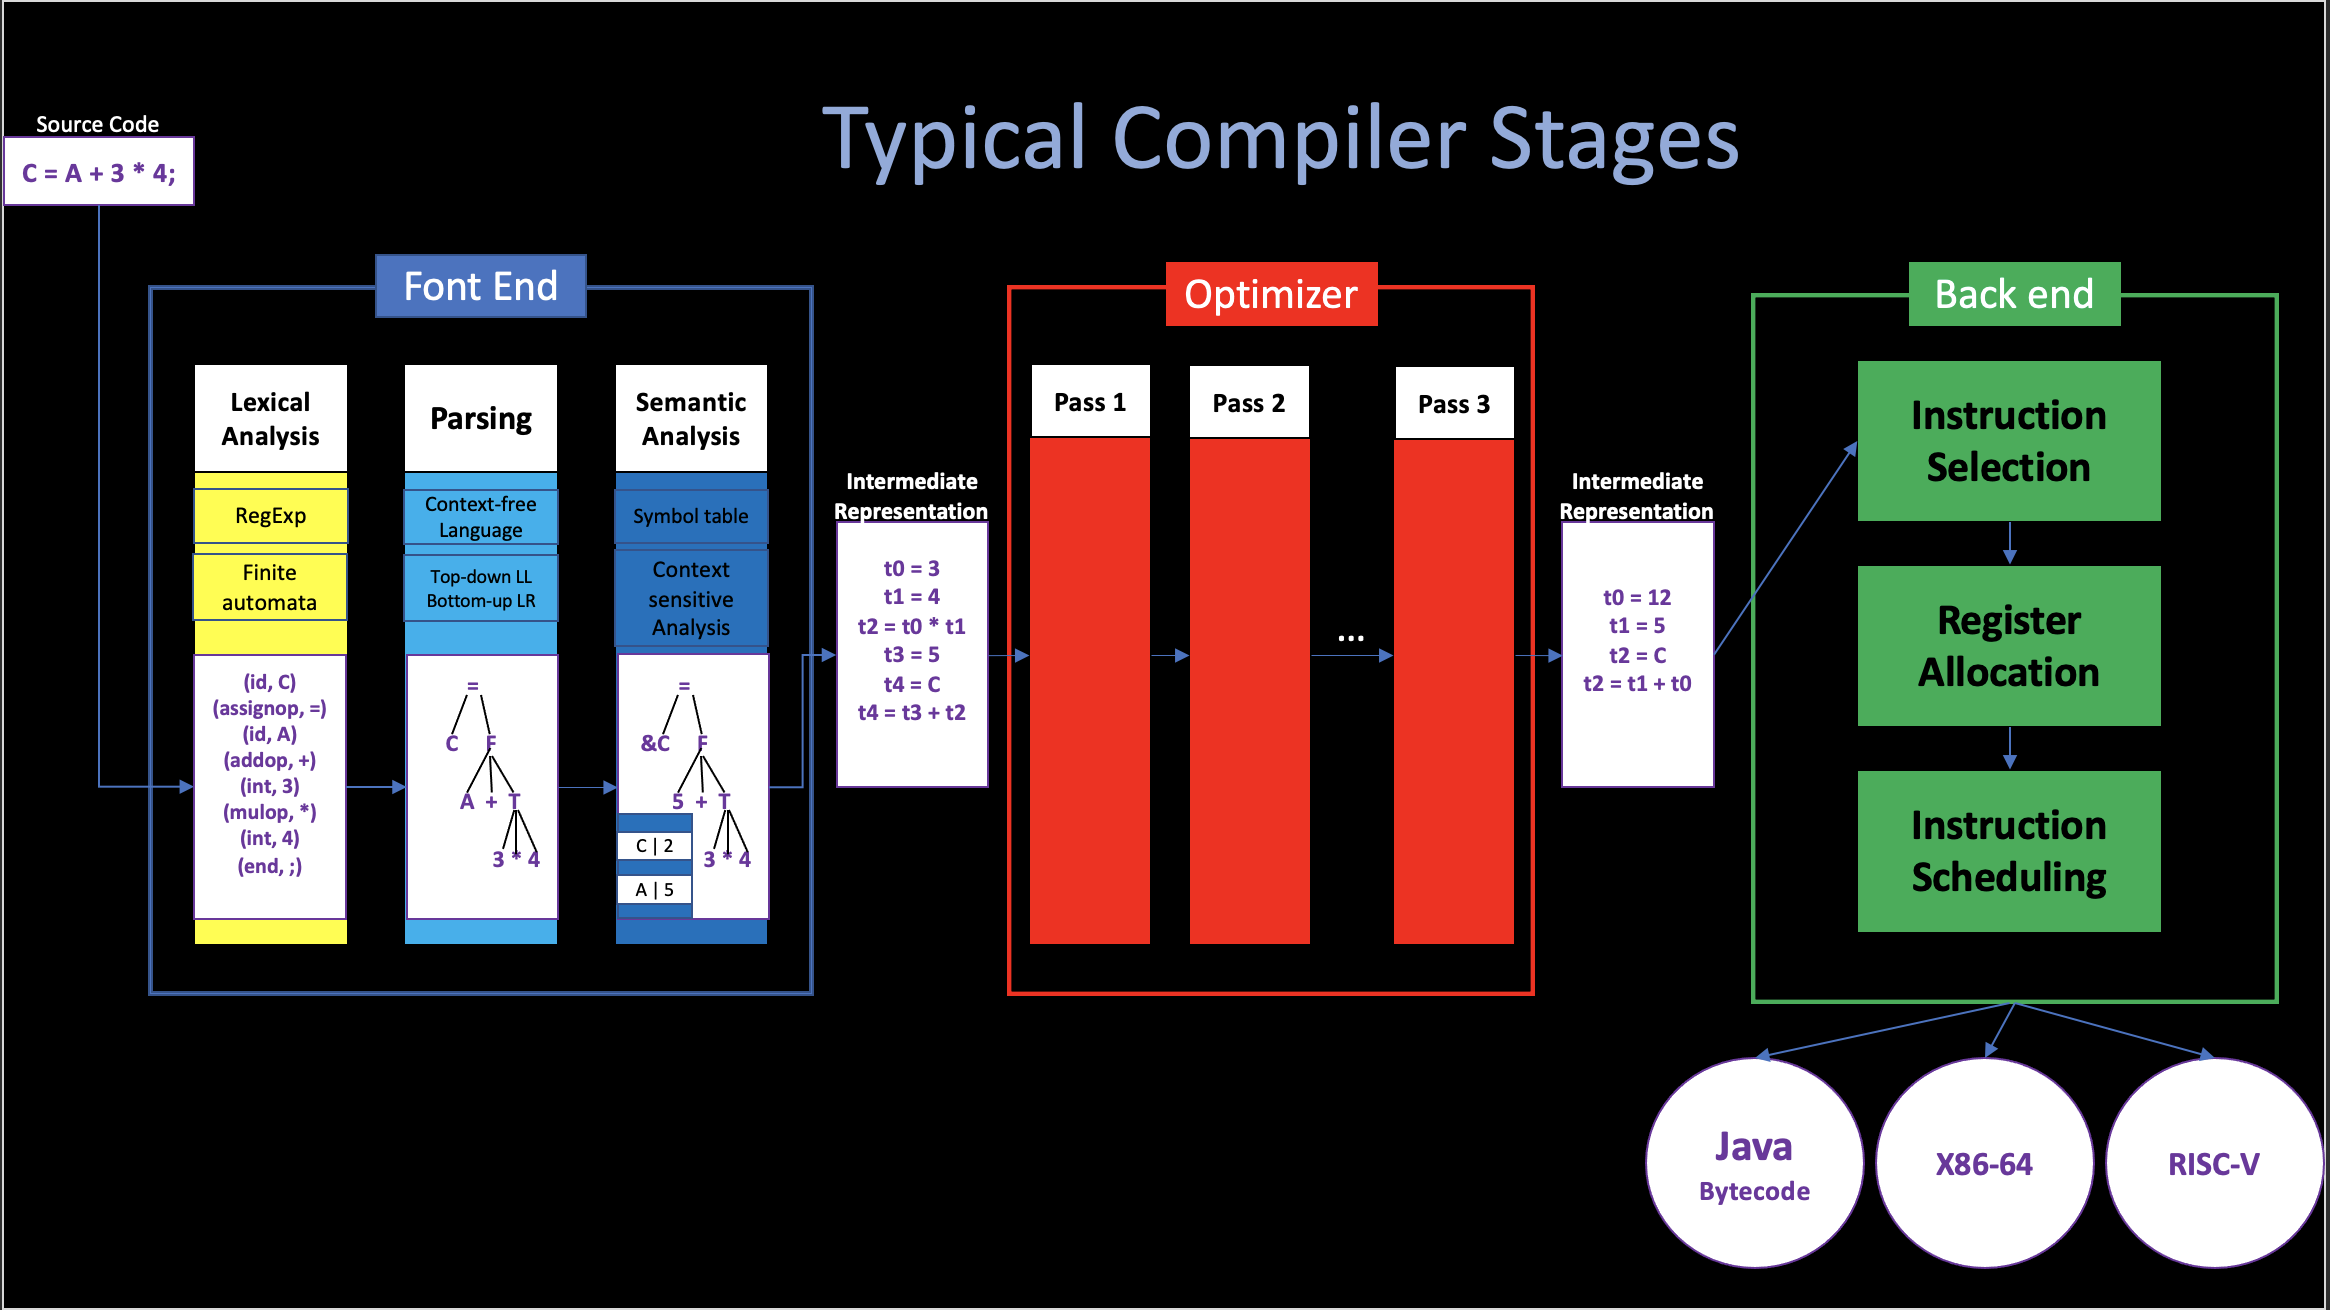
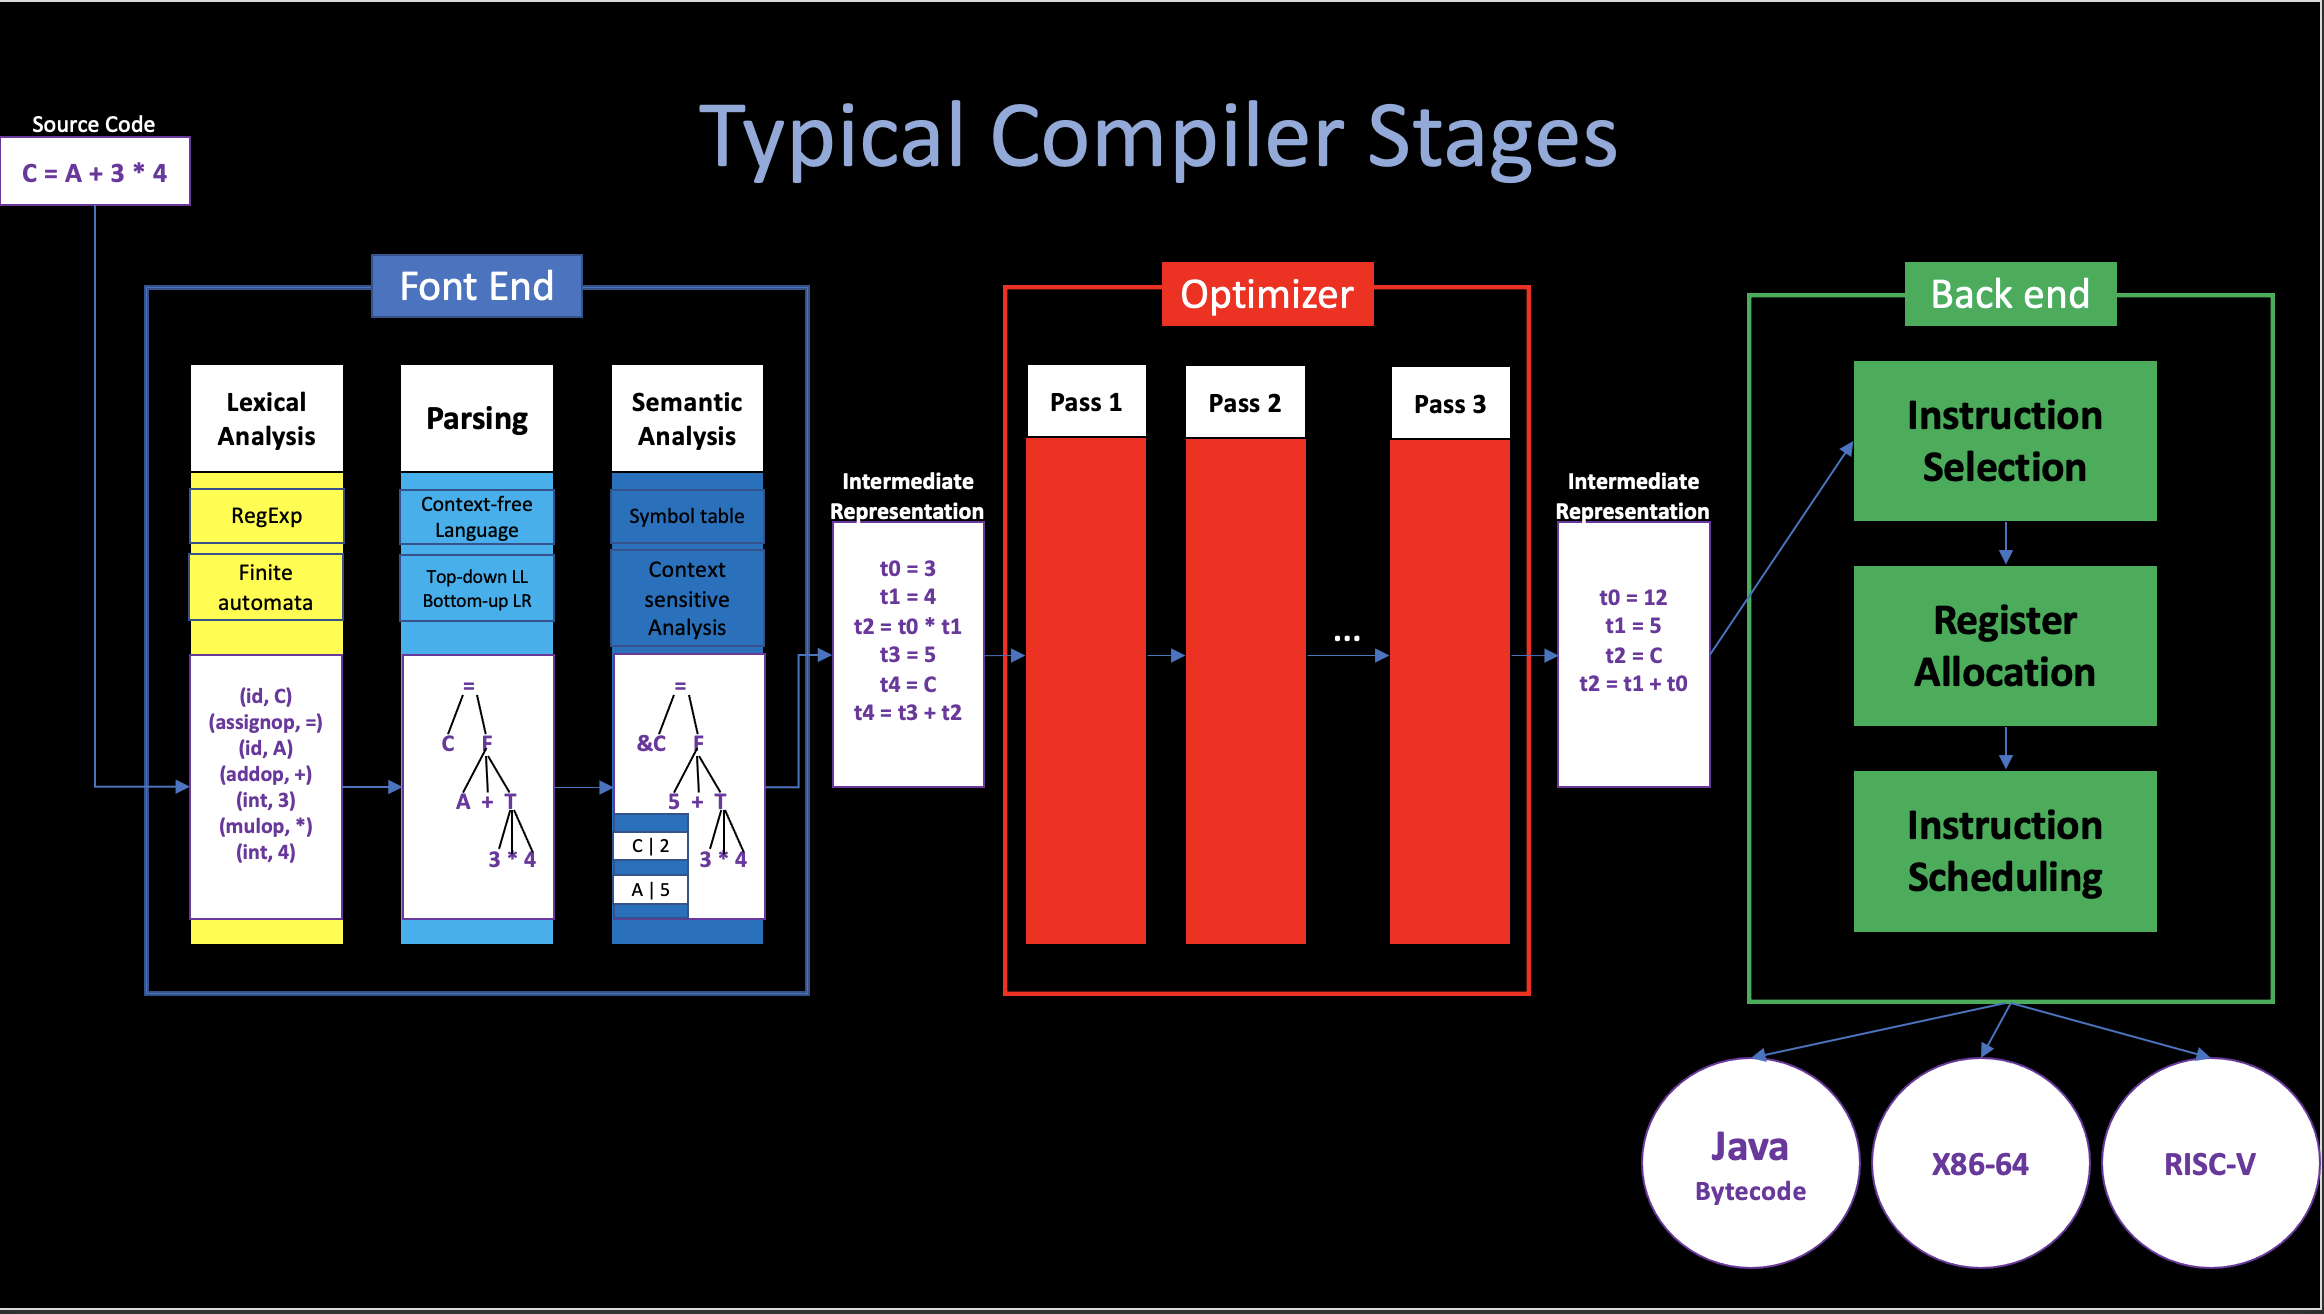
finish introduction stages

diff --git a/docs/lectures/1Introduction.html b/docs/lectures/1Introduction.html
@@ -69,24 +69,24 @@
 <h1>1. Introduction</h1>
 <p><strong>By Angold Wang | 11/02/2022</strong></p>
 <h2>1. Compiler</h2>
+<h3>i. Overview</h3>
 <p><img src="Sources/always.jpeg" alt="always"></p>
-<h3>Overview</h3>
 <ul>
 <li><strong>Compilers translate your program</strong></li>
 <li><strong>Interpreters run your program</strong></li>
 </ul>
 <p><img src="Sources/runtime.png" alt="runtime"></p>
-<h3>Compiler History</h3>
+<h3>ii. Compiler History</h3>
 <p><img src="Sources/hist.png" alt="hist"></p>
-<p>In 1954, <em><a href="https://en.wikipedia.org/wiki/John_Backus">John Backus</a></em> developed the first high-level language: <strong>FORTRAN (Formula-Translation)</strong><!-- raw HTML omitted -->
-<strong>Which translate high-level code to assembly, and the performance is close to hand-written assembly!</strong></p>
+<p>In 1954, <em><a href="https://en.wikipedia.org/wiki/John_Backus">John Backus</a></em> developed the first high-level language: <strong>FORTRAN (Formula-Translation)</strong></p>
+<p><strong>Which translate high-level code to assembly, and the performance is close to hand-written assembly!</strong></p>
 <ul>
 <li>Development time halved</li>
 <li>in 1958 &gt;50% of all software is in FORTRAN.</li>
 </ul>
-<h3>Compiler Structure</h3>
-<p><strong>FORTRAN I is the first compiler, which brings huge impact on computer science (Many thought this is impossible).</strong><!-- raw HTML omitted -->
-<strong>And modern compiers preserve the outlines of FORTRAN I:</strong></p>
+<h3>iii. Compiler Structure</h3>
+<p><strong>FORTRAN I is the first compiler, which brings huge impact on computer science (Many thought this is impossible).</strong>
+<strong>And modern compiers preserve the outlines of FORTRAN:</strong></p>
 <ol>
 <li>Lexical Analysis</li>
 <li>Parsing</li>
@@ -94,9 +94,9 @@
 <li>Optimiaztion</li>
 <li>Code Generation</li>
 </ol>
-<p>Today, the overall structure of almost every compiler adheres to this outline<!-- raw HTML omitted --> but proportions are changed since FORTRAN:</p>
+<p>Today, the overall structure of almost every compiler adheres to this outline, but proportions are changed since FORTRAN:</p>
 <p><img src="Sources/structure.png" alt="structure"></p>
-<h3>Compiler Economy</h3>
+<h3>iv. Compiler Economy</h3>
 <h4>Why are there so many programming languages?</h4>
 <p><strong>Application Domains have distinctive/conflicting needs.</strong></p>
 <ul>
@@ -105,8 +105,7 @@
 <ul>
 <li>Good Floating-point support</li>
 <li>Godd Arrays</li>
-<li>Parallelism</li>
-<li>Example: <em>FORTRAN / Matlab / R</em></li>
+<li>Parallelism Example: <em>FORTRAN / Matlab / R</em></li>
 </ul>
 </li>
 <li>
@@ -151,11 +150,57 @@
 </ol>
 <h4>What is a good programming language?</h4>
 <p><strong>No &quot;Perfect&quot; Language, each of them has its own domain.</strong></p>
-<h2>2. Cool Programming Language</h2>
-<p><strong>Classroom Object Oriented Language</strong></p>
-<ul>
-<li>Designed to be implemented in a short time</li>
-</ul>
+<h2>2. Typical Compiler Stages</h2>
+<h4>Structure of a typical compiler</h4>
+<p><strong>To reduce complexity, and create a more modular system. We divide the whole compiler into different <em>stages</em>, and each stages is the procedure of multiple <em>passes</em>.</strong></p>
+<p><img src="Sources/stages.png" alt="stages"></p>
+<p>The monolithic structure may be more <strong>efficient</strong>, and the multi-pass structure helps to <strong>reduce the complexity of the implementation</strong>, and it is relatively <strong>simple to debug</strong>, it also improves the <strong>flexibility,</strong> which means different combinations of optimization techniques can be used in different situations.</p>
+<p>To make this abstraction more concrete, consider the steps required to generate executable code from the following expression:</p>
+<pre><code>C = A + 3 * 4 
+</code></pre>
+<h3>i. Lexical Analysis</h3>
+<p>Basically, the <strong>Lexical Analyzer</strong> transforms the <strong>input source char stream</strong> into the <strong>word stream of the given programming language</strong> (so called &quot;token&quot;), each token must classified into the a <strong>grammatical category.</strong></p>
+<p>For example, after the lexical analysis, the input source program becomes:</p>
+<pre><code>(identifier, C), (assign equal, =), (identifier, A),
+(add, +), (integer, 3), (multiple, *), (integer, 4).
+</code></pre>
+<p>Nowadays, since we had a great understanding of the math concepts (<strong>Finite-automata</strong>) behind the Lexer (aka. Scanner) implementation. People design many tools in order to auto-generate Lexer by using the given <strong>Regular Expression.</strong></p>
+<h3>ii. Parsing</h3>
+<p>Now, the parsing step is going to match the <strong>grammar</strong> of the input <strong>tokens</strong>.</p>
+<h4>Programming language constructs have recursive structure.</h4>
+<pre><code>S -&gt; A | ... ;
+A -&gt; E ASSIGN_EQUAL E;
+E -&gt; E + T | T ;
+T -&gt; T * F | F
+F -&gt; (E) | IDENTIFIER | INTEGER | OP ;
+</code></pre>
+<p>The language above is called <strong>Context-free Grammar</strong>, which can describe the grammar of given programming language.
+<strong>Not only we want to check whether the input tokens is in the grammar, but we also need to produce an output that represents a valid stream of tokens for future processes.</strong>
+The output is called <strong>Parse Tree</strong>, which describes the derivation steps, and it is enough for future pass. <em>(From Button to UP)</em></p>
+<p><img src="Sources/ptree.png" alt="ptree"></p>
+<h3>iii. Semantic Analysis</h3>
+<p><strong>Grammatically correct statements may be meaningless. Whether it has meaning depends on its context.</strong></p>
+<p>For example, think about the following two sentences in English:</p>
+<pre><code>Rocks are green vegetables.
+Compilers are engineered objects.
+</code></pre>
+<p>Both of them use the same syntatic category token in the same order, but the previous statement has no reasonable semantics. To understand that statement, contextual knowledge about <code>Rocks</code>, <code>Vegetables</code> are required.</p>
+<p>In the <strong>runtime</strong> of this pass, the compiler will maintain a <strong>symbol table</strong>, where stores the <strong>context</strong> of each variable, like their type, value, size, etc,. <strong>And the compiler will use that table to check whether each <code>variable</code>, <code>function</code>, <code>class</code> ... is used in compliance with its definitions.</strong></p>
+<p>Like in the <code>C = A + 3 * 4</code> example, in this pass, the compiler will try to find the definition of variable <code>A</code> and <code>C</code>, and check their type and value. If all of them are valid in this context. then Compiler will come to the next stages.</p>
+<h3>iv. Optimization</h3>
+<p>The term <strong>&quot;Optimization&quot;</strong> implies that the compiler needs to find the optimal solution to a problem. <strong>But the problems that occur in the optimization process are so intricate and complex that these problems cannot actually be optimally solved.</strong></p>
+<p>The mordern optimizer is extremely complex, because there are a lot of things need to be concerned. The Optimizer are also divied into a lot of <strong>passes</strong>, each pass is responsible to deal with some optimizations. They read source IR and then output transformed IR.</p>
+<p>In our example, to reduce the execution time, we can optimize the IR by reducing the number of lines, or the number of registers used. (assume <code>A</code> equal to 5 in this context).</p>
+<pre><code>t0 = 3          |          t0 = 12
+t1 = 4          |          t1 = 3 + 12
+t2 = t0 * t1    |          t2 = 5
+t3 = A         =|=&gt;        t2 = t1
+t4 = t3 + t2    |
+t5 = C          |
+t5 = t4         |
+</code></pre>
+<h3>v. Backend</h3>
+<p><strong>The backend of the compiler will traverse the IR form of the code and output the code of the target machine (or interpreter).</strong></p>
 	</section>
 	</div>
     </div>

diff --git a/index.html b/index.html
@@ -74,6 +74,7 @@
 <ul>
 <li><strong>1. <a href="docs/lectures/1Introduction.html">Introduction</a></strong></li>
 <li><strong>2. <a href="docs/lectures/2Lexical.html">Lexical Analysis</a></strong></li>
+<li><strong>3. <a href="docs/lectures/3Parse.html">Parsing</a></strong></li>
 </ul>
 	</section>
 	</div>

diff --git a/docs/lectures/1Introduction.md b/docs/lectures/1Introduction.md
@@ -84,7 +84,7 @@ That leads three things:
 **No "Perfect" Language, each of them has its own domain.**
 
 
-## 2. Abstractions
+## 2. Typical Compiler Stages
 
 #### Structure of a typical compiler
 
@@ -92,29 +92,84 @@ That leads three things:
 
 ![stages](Sources/stages.png)
 
+The monolithic structure may be more **efficient**, and the multi-pass structure helps to **reduce the complexity of the implementation**, and it is relatively **simple to debug**, it also improves the **flexibility,** which means different combinations of optimization techniques can be used in different situations.
+
+To make this abstraction more concrete, consider the steps required to generate executable code from the following expression:
+```
+C = A + 3 * 4 
+```
+
+### i. Lexical Analysis
+Basically, the **Lexical Analyzer** transforms the **input source char stream** into the **word stream of the given programming language** (so called "token"), each token must classified into the a **grammatical category.**
+
+For example, after the lexical analysis, the input source program becomes:
+
+```
+(identifier, C), (assign equal, =), (identifier, A),
+(add, +), (integer, 3), (multiple, *), (integer, 4).
+```
+
+Nowadays, since we had a great understanding of the math concepts (**Finite-automata**) behind the Lexer (aka. Scanner) implementation. People design many tools in order to auto-generate Lexer by using the given **Regular Expression.**
 
 
+### ii. Parsing
+
+Now, the parsing step is going to match the **grammar** of the input **tokens**.
+
+#### Programming language constructs have recursive structure.
+
+```
+S -> A | ... ;
+A -> E ASSIGN_EQUAL E;
+E -> E + T | T ;
+T -> T * F | F
+F -> (E) | IDENTIFIER | INTEGER | OP ;
+```
+The language above is called **Context-free Grammar**, which can describe the grammar of given programming language.
+**Not only we want to check whether the input tokens is in the grammar, but we also need to produce an output that represents a valid stream of tokens for future processes.**
+The output is called **Parse Tree**, which describes the derivation steps, and it is enough for future pass. *(From Button to UP)*
+
+![ptree](Sources/ptree.png)
 
 
+### iii. Semantic Analysis
+
+**Grammatically correct statements may be meaningless. Whether it has meaning depends on its context.**
+
+For example, think about the following two sentences in English:
+```
+Rocks are green vegetables.
+Compilers are engineered objects.
+```
+
+Both of them use the same syntatic category token in the same order, but the previous statement has no reasonable semantics. To understand that statement, contextual knowledge about `Rocks`, `Vegetables` are required.
+
+In the **runtime** of this pass, the compiler will maintain a **symbol table**, where stores the **context** of each variable, like their type, value, size, etc,. **And the compiler will use that table to check whether each `variable`, `function`, `class` ... is used in compliance with its definitions.**
+
+Like in the `C = A + 3 * 4` example, in this pass, the compiler will try to find the definition of variable `A` and `C`, and check their type and value. If all of them are valid in this context. then Compiler will come to the next stages.
 
 
+### iv. Optimization
+
+The term **"Optimization"** implies that the compiler needs to find the optimal solution to a problem. **But the problems that occur in the optimization process are so intricate and complex that these problems cannot actually be optimally solved.**
+
+The mordern optimizer is extremely complex, because there are a lot of things need to be concerned. The Optimizer are also divied into a lot of **passes**, each pass is responsible to deal with some optimizations. They read source IR and then output transformed IR.
 
 
+In our example, to reduce the execution time, we can optimize the IR by reducing the number of lines, or the number of registers used. (assume `A` equal to 5 in this context).
+```
+t0 = 3          |          t0 = 12
+t1 = 4          |          t1 = 3 + 12
+t2 = t0 * t1    |          t2 = 5
+t3 = A         =|=>        t2 = t1
+t4 = t3 + t2    |
+t5 = C          |
+t5 = t4         |
+```
 
-
-
-
-
-
-
-
-
-
-
-
-
-
-
+### v. Backend
+**The backend of the compiler will traverse the IR form of the code and output the code of the target machine (or interpreter).**
+ 
 
 
 

diff --git a/index.md b/index.md
@@ -5,3 +5,4 @@
 ## Lectures (Standford CS-143)
 * **1. [Introduction](docs/lectures/1Introduction.html)**
 * **2. [Lexical Analysis](docs/lectures/2Lexical.html)**
+* **3. [Parsing](docs/lectures/3Parse.html)**
